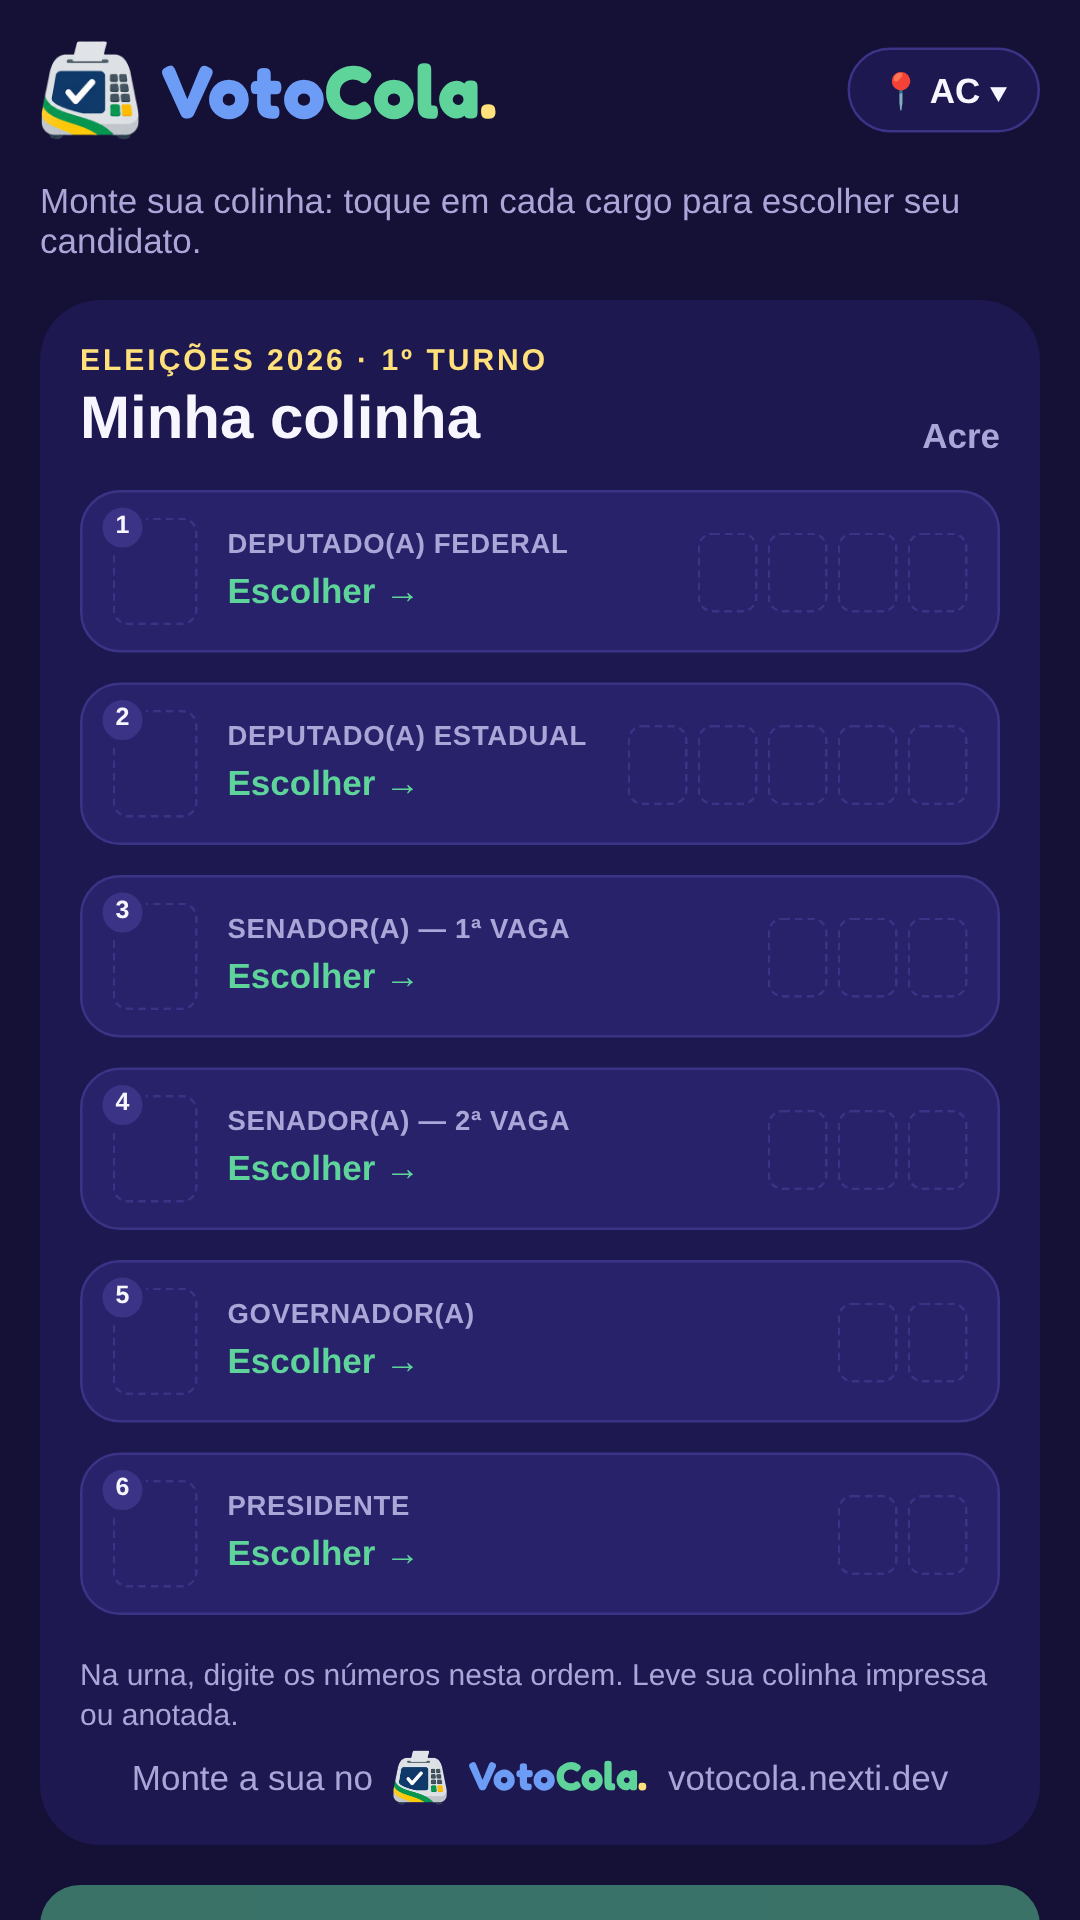
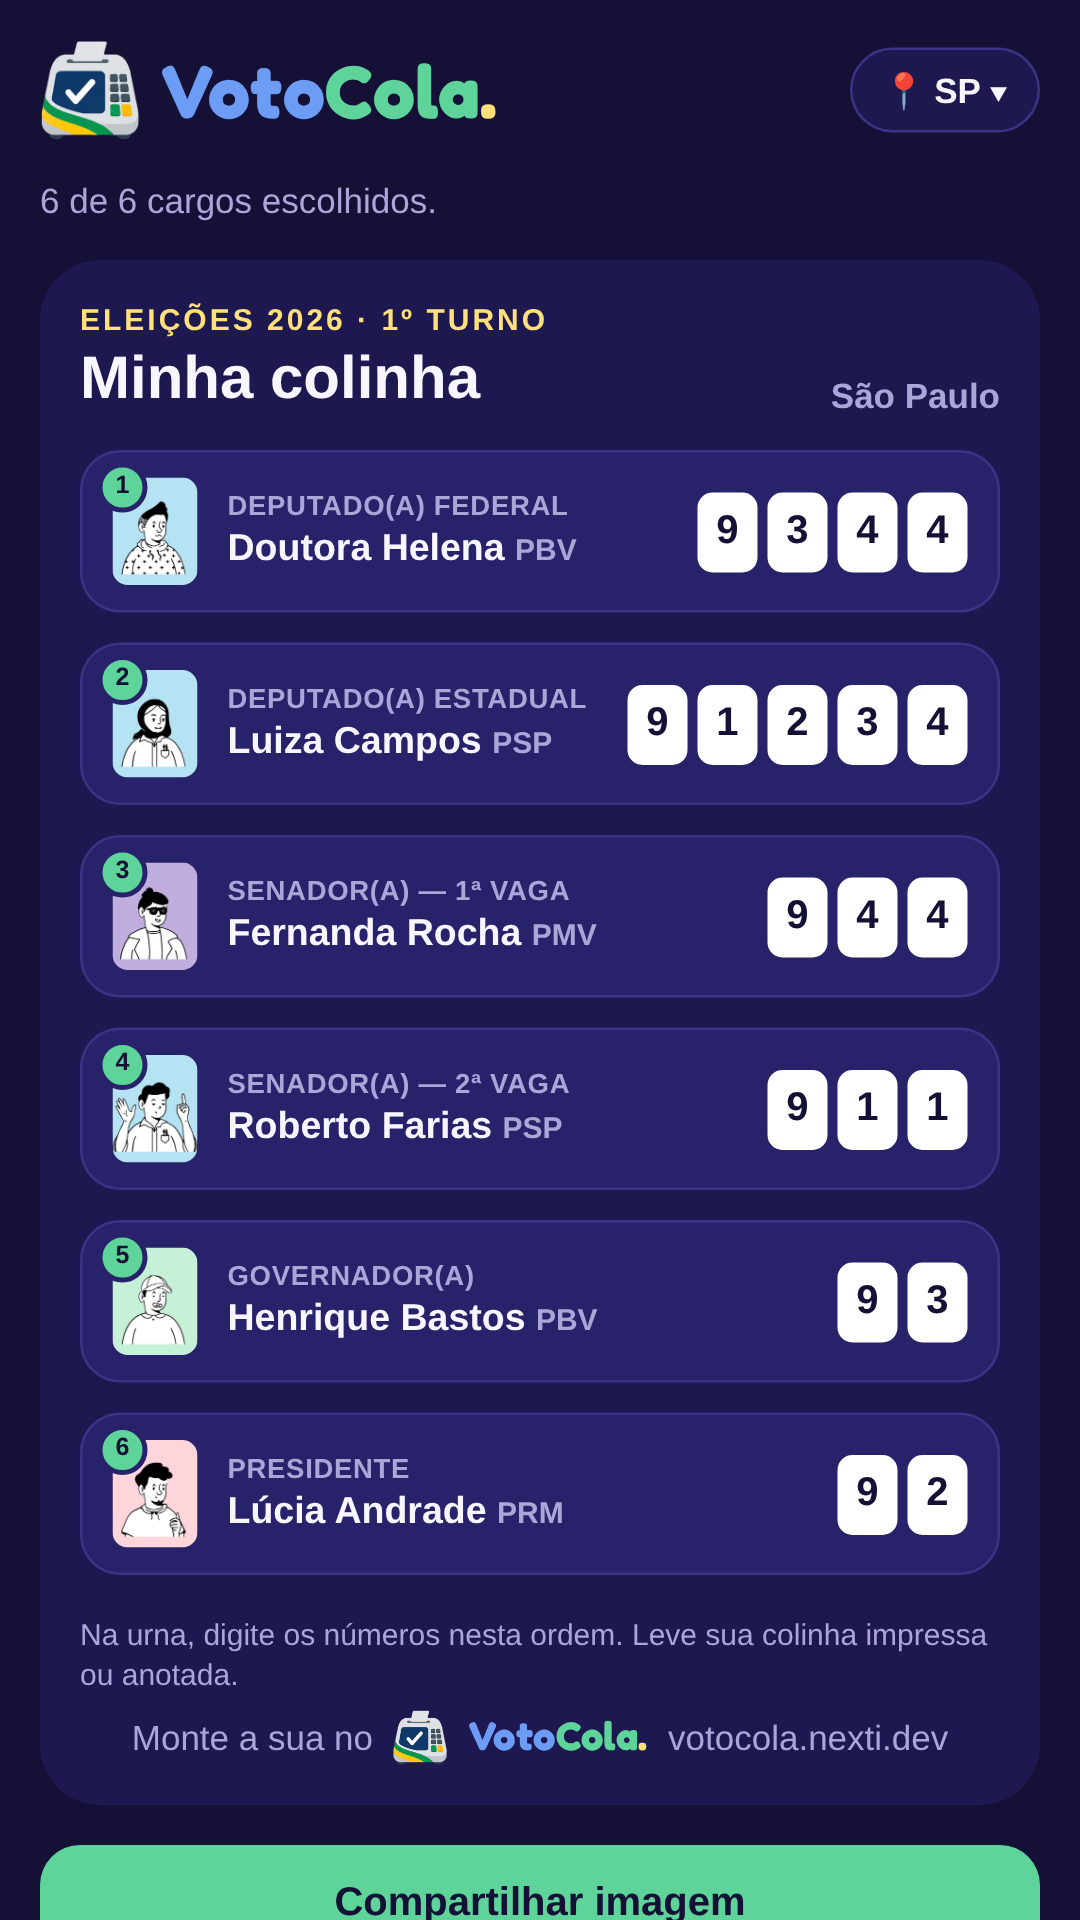
Capturas da loja com candidatos fictícios e documento da ficha atualizado

diff --git a/docs/loja/google-play.md b/docs/loja/google-play.md
@@ -41,7 +41,7 @@ Gerados em `docs/loja/graficos/`:
 
 - **Ícone** 512×512: `icone-512.png`
 - **Gráfico de recursos** 1024×500: `grafico-recursos-1024x500.png`
-- **Capturas de tela do celular** 1080×1920: `captura-*.png`
+- **Capturas de tela do celular** 1080×1920 (5, para ser elegível a destaque): `captura-1` a `captura-5`. A colinha, a busca e o perfil usam **candidatos e partidos fictícios** (avatares DiceBear "notionists", CC0), para não associar o app a nenhum candidato real.
 
 ## Classificação do conteúdo (questionário IARC)
 
@@ -51,6 +51,11 @@ Gerados em `docs/loja/graficos/`:
 - Compartilha a localização do usuário: **Não**
 - Compras digitais: **Não**
 - Resultado esperado: **Livre**
+
+## Declarações
+
+- **ID de publicidade:** Sim (o SDK do AdMob declara a permissão AD_ID)
+- **App governamental:** Não
 
 ## Público-alvo e conteúdo
 
@@ -68,12 +73,12 @@ Coerente com a política de privacidade. O próprio app não coleta dados pessoa
 - **Todos os dados são criptografados em trânsito?** Sim
 - **Os usuários podem pedir a exclusão dos dados?** Não há dados vinculados ao usuário no app; os dados de anúncios são controlados nas configurações do Google (explicado na política)
 
-| Tipo de dado                                                 | Coletado | Compartilhado | Finalidade                                                | Opcional? |
-| ------------------------------------------------------------ | -------- | ------------- | --------------------------------------------------------- | --------- |
-| Local aproximado (derivado do IP pelo AdMob)                 | Sim      | Sim           | Publicidade ou marketing; prevenção a fraudes e segurança | Não       |
-| Interações com o app (interações com anúncios)               | Sim      | Sim           | Publicidade ou marketing; análise                         | Não       |
-| Diagnóstico (falhas e desempenho do SDK de anúncios)         | Sim      | Sim           | Análise                                                   | Não       |
-| Identificadores do dispositivo ou outros (ID de publicidade) | Sim      | Sim           | Publicidade ou marketing; prevenção a fraudes e segurança | Não       |
+Os quatro tipos abaixo (do SDK do AdMob), todos **coletados e compartilhados**, com as mesmas finalidades: **Analytics**, **Advertising or marketing** e **Fraud prevention, security, and compliance**.
+
+- Local aproximado (derivado do IP)
+- Interações com o app (interações com anúncios)
+- Diagnóstico (falhas e desempenho do SDK)
+- Identificadores do dispositivo ou outros (ID de publicidade)
 
 Marcar como **processado de forma temporária**: nenhum. **Obrigatório** (não opcional): todos, porque o SDK de anúncios roda para todos os usuários.
 
